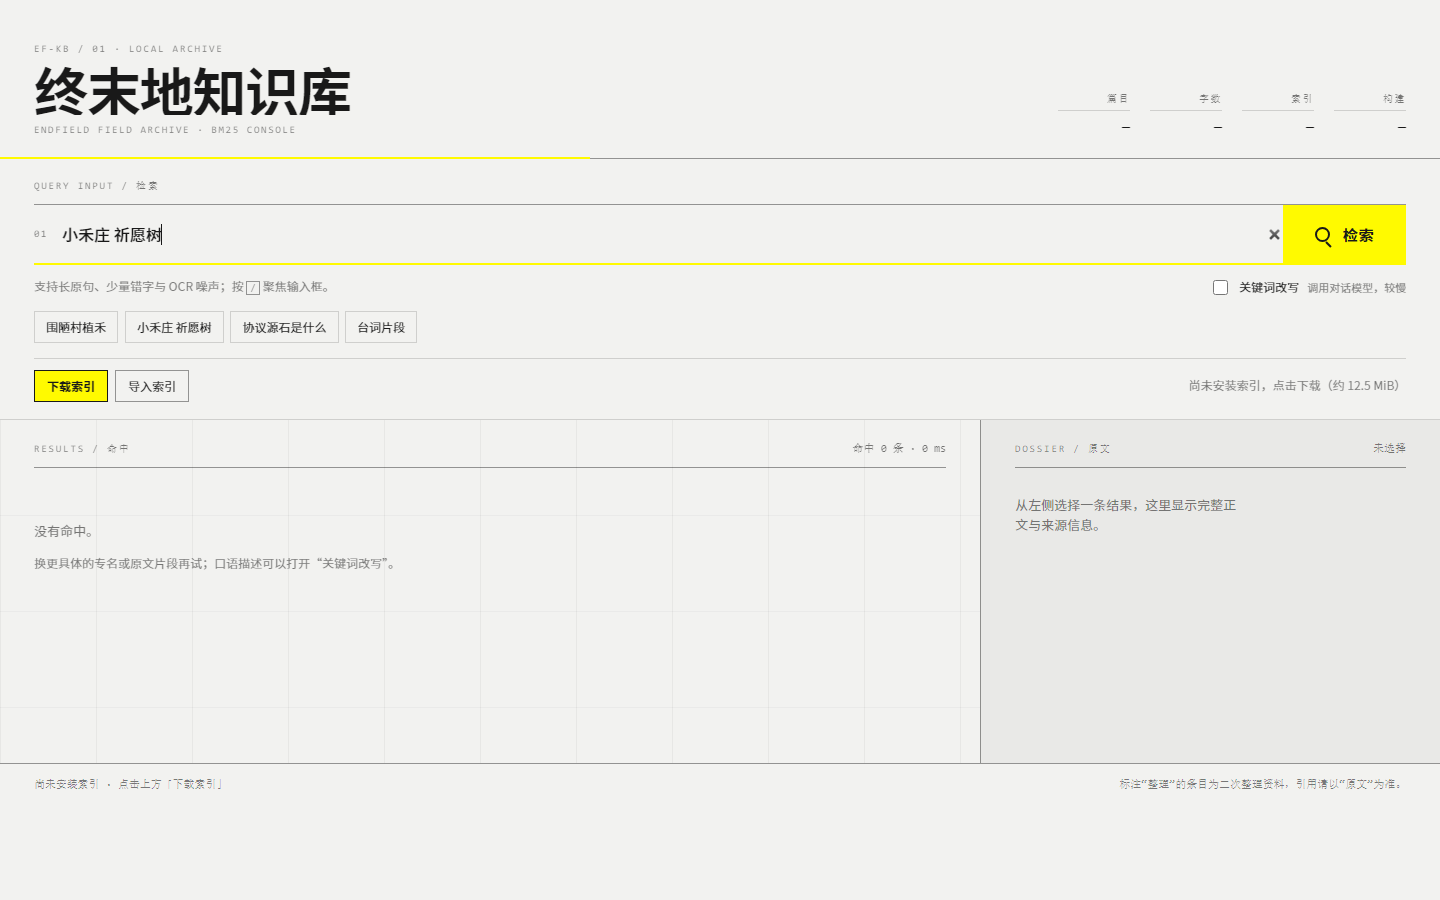
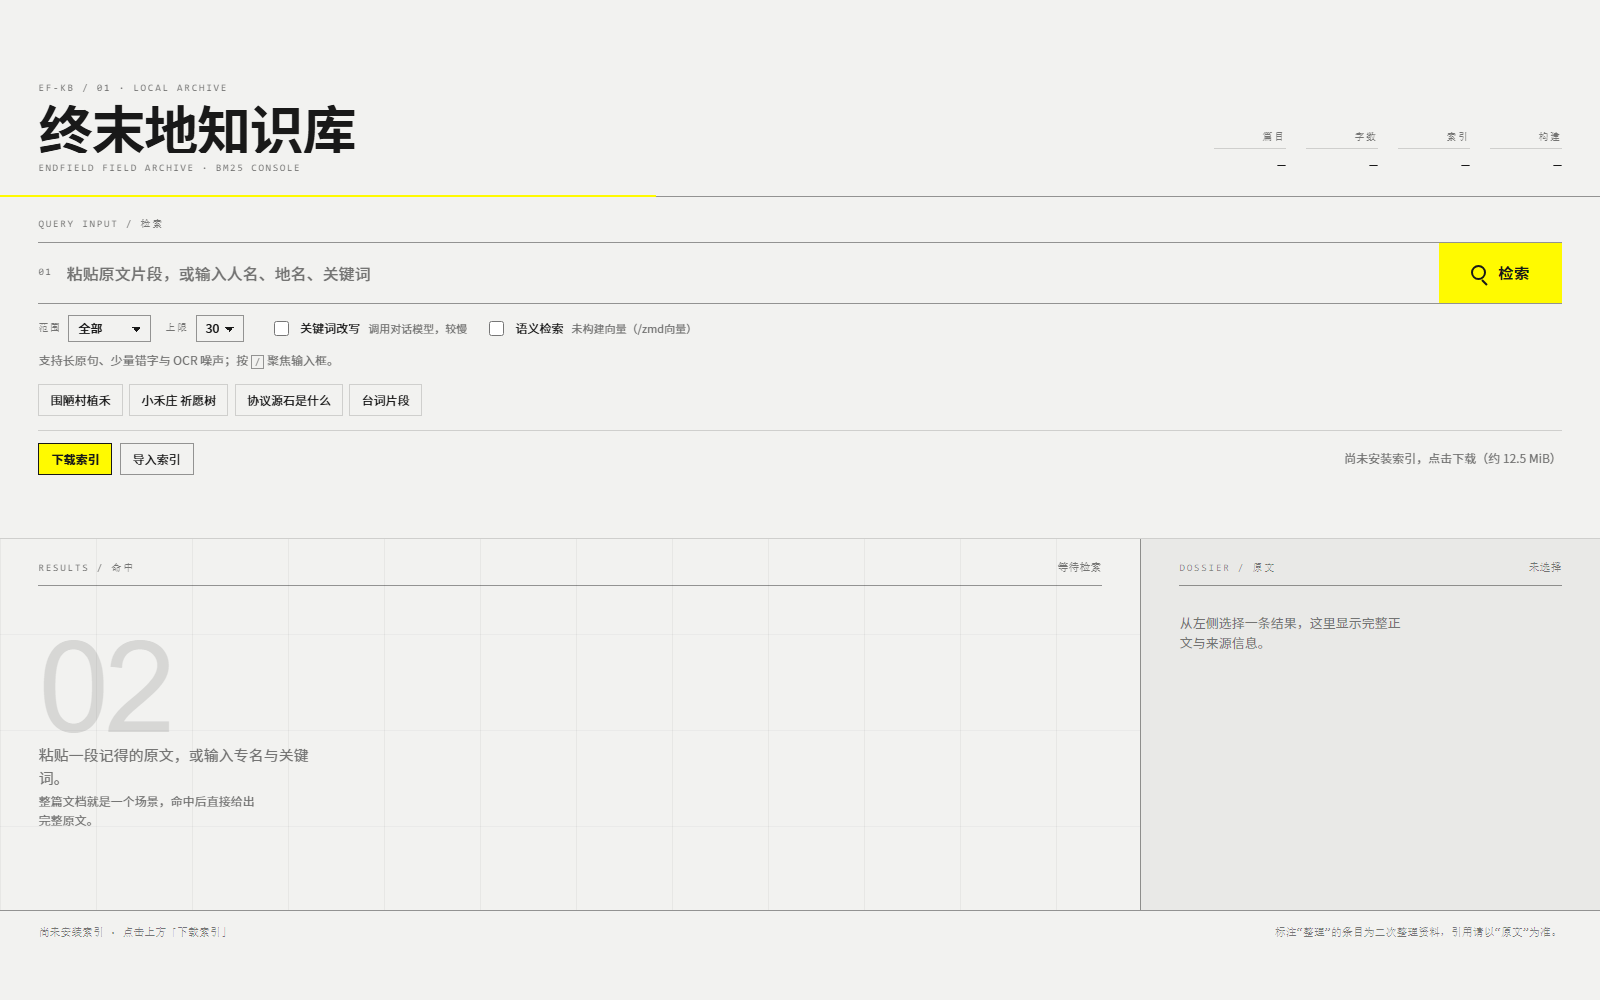
docs: refresh console screenshots and prune unused images

diff --git a/README.md b/README.md
@@ -151,6 +151,8 @@ data/plugin_data/astrbot_plugin_endfield_kb/index/
 
 - **范围**：全部 / 剧情原文 / 中枢档案 / 整理资料 / 角色资料。切换即用当前查询重跑
 - **上限**：10 / 20 / 30 / 50，默认 30；实际返回仍受相对分数阈值约束
+- **关键词改写**：把口语描述压成检索词，调用对话模型，较慢
+- **语义检索**：可选的向量召回，与配置里的开关同源；未构建向量时只走 BM25
 
 结果按 **10 条一页** 分页。翻页条只在真的有多页时出现，排在列表最后一条下面，不悬浮、不遮挡内容。
 
